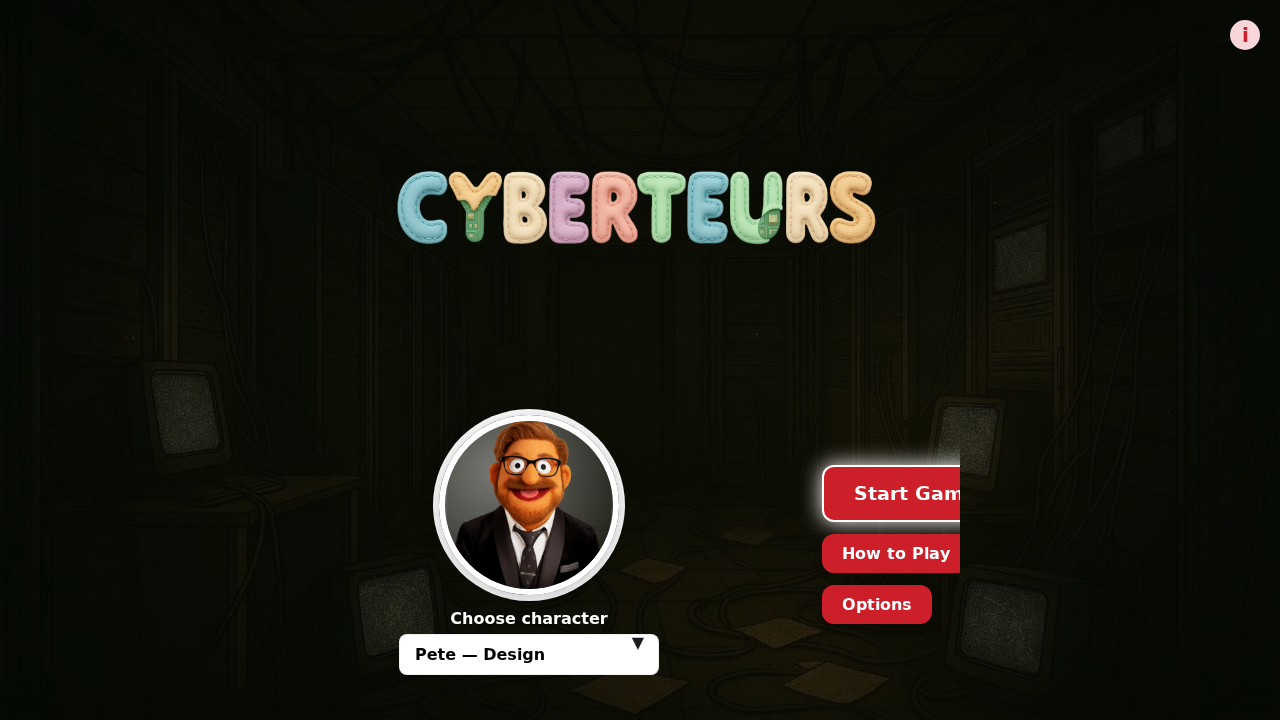
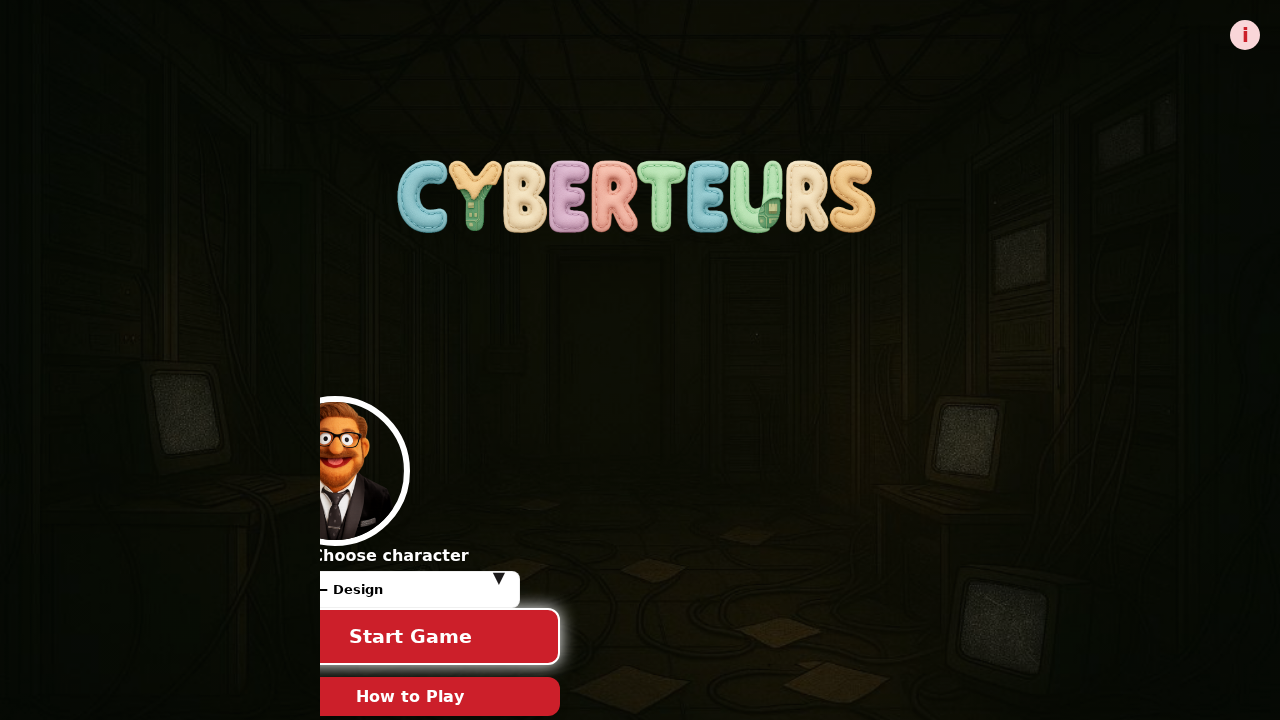
fix: remove scroll navigations on starting screen
Refactored the HTML and CSS of the starting screen to remove awkward scroll navigations. The new layout is a single, centered vertical column that is responsive and free of scrollbars.

Changed region(s): [[0.25, 0.55, 0.5312, 1.0], [0.3125, 0.2139, 0.6875, 0.3361], [0.625, 0.6111, 0.75, 0.8861]]

diff --git a/index.html b/index.html
@@ -11,80 +11,6 @@
   <meta name="theme-color" content="#cc1f2a">
 
   <link rel="stylesheet" href="css/style.css">
-
-  <!-- Minimal fixes for layout and the stray scrollbar -->
-  <style>
-    html, body { height: 100%; }
-    body { margin: 0; overflow-x: hidden; }
-
-    /* Start screen layout */
-    .main-menu { padding: 24px 24px 32px; }
-    .main-menu .main-logo {
-      display: block;
-      margin: 0 auto 12px auto;
-      max-width: 520px;
-      width: min(92vw, 520px);
-      height: auto;
-    }
-    /* Two columns under the logo: left preview, right actions */
-    .menu-grid {
-      display: grid;
-      grid-template-columns: 1fr 1fr;
-      gap: 24px;
-      align-items: start;
-      justify-items: center;
-      width: min(1100px, 92vw);
-      margin: 8px auto 0;
-      overflow: visible; /* belt-and-braces against stray bars */
-    }
-    /* Left column */
-    .character-block {
-      display: grid;
-      justify-items: center;
-      gap: 14px;
-      overflow: visible;
-    }
-    .character-image-frame {
-      width: 180px;
-      height: 180px;
-      border-radius: 50%;
-      display: grid;
-      place-items: center;
-      background: radial-gradient(circle at 30% 30%, rgba(255,255,255,.45), rgba(255,255,255,0));
-      box-shadow: 0 4px 22px rgba(0,0,0,.25), 0 0 0 6px #fff;
-    }
-    .character-image-frame img {
-      width: 100%;
-      height: 100%;
-      object-fit: cover;
-      border-radius: 50%;
-      display: block;
-    }
-    .custom-select-wrapper { width: 260px; max-width: 80vw; }
-    .custom-select-wrapper select {
-      width: 100%;
-      padding: 10px 12px;
-      border-radius: 10px;
-      border: 1px solid rgba(0,0,0,.15);
-      background: #fff;
-      font: 600 16px/1.2 system-ui, -apple-system, Segoe UI, Roboto, Arial, sans-serif;
-    }
-    /* Right column */
-    .main-actions {
-      display: grid;
-      gap: 12px;
-      justify-items: start;
-      overflow: visible;
-    }
-    /* Responsive: stack on small screens */
-    @media (max-width: 900px) {
-      .menu-grid { grid-template-columns: 1fr; }
-      .main-actions { justify-items: center; }
-    }
-
-    /* Make sure modal dialog itself isn't forcing inner scrollbars */
-    .modal .dialog { overflow: auto; }
-  </style>
 </head>
 <body>
 <div class="app">
@@ -112,7 +38,7 @@
   <div class="dialog">
     <button class="btn secondary close" id="closeLog">Close</button>
     <h2>Game Log</h2>
-    <div id="logBody" class="note" style="max-height:60vh; overflow:auto"></div>
+    <div id="logBody" class="note"></div>
   </div>
 </div>
 
@@ -121,34 +47,29 @@
   <div class="dialog main-menu">
     <img src="assets/cyberteurs.png" alt="Cyber Traitors" class="main-logo">
 
-    <!-- New two-column layout under the logo -->
-    <div class="menu-grid">
-      <!-- LEFT: character preview + dropdown -->
-      <div class="character-block">
-        <div class="character-image-frame">
-          <img id="character-preview-image" src="assets/pngs/al-consultant-1.png" alt="Selected character preview">
-        </div>
-        <div class="custom-select-wrapper">
-          <label for="playerSelect" class="sr-only">Choose character</label>
-          <select id="playerSelect"></select>
-        </div>
+    <!-- Centered, single-column layout -->
+    <div class="character-display-container">
+      <div class="character-image-frame">
+        <img id="character-preview-image" src="assets/pngs/al-consultant-1.png" alt="Selected character preview">
       </div>
-
-      <!-- RIGHT: actions -->
-      <nav class="main-actions">
-        <button id="startGameBtn" class="btn btn-main">Start Game</button>
-        <button id="howToPlayBtn" class="btn btn-sub">How to Play</button>
-        <button id="optionsBtn" class="btn btn-sub">Options</button>
-      </nav>
+      <div class="custom-select-wrapper">
+        <label for="playerSelect" class="sr-only">Choose character</label>
+        <select id="playerSelect"></select>
+      </div>
     </div>
+    <nav class="main-actions">
+      <button id="startGameBtn" class="btn btn-main">Start Game</button>
+      <button id="howToPlayBtn" class="btn btn-sub">How to Play</button>
+      <button id="optionsBtn" class="btn btn-sub">Options</button>
+    </nav>
   </div>
 </div>
 
 <!-- Info Modal -->
 <div class="modal" id="infoModal" role="dialog" aria-modal="true">
   <div class="dialog">
-    <h2 style="margin-top:0">About The Cyber Traitors</h2>
-      <p style="font-size:14px; line-height:1.4; color:var(--muted);">
+    <h2>About The Cyber Traitors</h2>
+      <p>
         Each day, you’ll face a workplace scenario.<br>
         1⃣ <strong>Pick the safest choice</strong> — avoid risky behaviour.<br>
         2⃣ Unsafe behaviour means instant <strong>elimination</strong>.<br>
@@ -157,7 +78,7 @@
         5⃣ Keep going until all traitors are gone (win) or they take over (lose).<br>
         <em>If votes tie, the group decides automatically.</em>
       </p>
-    <div class="footer" style="display:flex;justify-content:flex-end;align-items:center">
+    <div class="footer">
       <button id="closeInfoBtn" class="btn">Close</button>
     </div>
   </div>
@@ -168,8 +89,8 @@
 <!-- Options Modal -->
 <div class="modal" id="optionsModal" role="dialog" aria-modal="true">
   <div class="dialog">
-    <h2 style="margin-top:0">Options</h2>
-    <div class="row" style="display:flex;gap:10px;flex-wrap:wrap">
+    <h2>Options</h2>
+    <div class="row">
       <label>Difficulty<br>
         <select id="difficulty">
           <option>Easy</option>
@@ -194,7 +115,7 @@
       </label>
     </div>
     <hr>
-    <div class="footer" style="display:flex;justify-content:flex-end;align-items:center">
+    <div class="footer">
       <button id="confirmOptionsBtn" class="btn">Confirm Settings</button>
     </div>
   </div>
@@ -203,9 +124,9 @@
 <!-- How to Play Modal -->
 <div class="modal" id="howToPlayModal" role="dialog" aria-modal="true">
   <div class="dialog">
-    <h2 style="margin-top:0">How to Play</h2>
-    <div class="instructions" style="margin-bottom:12px;">
-      <p style="font-size:14px; line-height:1.4; color:var(--muted);">
+    <h2>How to Play</h2>
+    <div class="instructions">
+      <p>
         Each day, you’ll face a workplace scenario.<br>
         1⃣ <strong>Pick the safest choice</strong> — avoid risky behaviour.<br>
         2⃣ Unsafe behaviour means instant <strong>elimination</strong>.<br>
@@ -215,7 +136,7 @@
         <em>If votes tie, the group decides automatically.</em>
       </p>
     </div>
-    <div class="footer" style="display:flex;justify-content:flex-end;align-items:center">
+    <div class="footer">
       <button id="closeRulesBtn" class="btn">Close Rules</button>
     </div>
   </div>

diff --git a/css/style.css b/css/style.css
@@ -130,12 +130,6 @@ body[data-game-ready='true'] {
 .modal.open{ display:flex; }
 
 #startModal .dialog {
-    display: flex;
-    flex-direction: column;
-    align-items: center;
-    justify-content: center;
-    gap: 20px;
-    padding-bottom: 50px;
     background: transparent;
     box-shadow: none;
     border: none;
@@ -195,12 +189,20 @@ body[data-game-ready='true'] {
     pointer-events: none;
 }
 
+.main-menu {
+  display: flex;
+  flex-direction: column;
+  justify-content: center;
+  align-items: center;
+  text-align: center;
+  padding: 20px;
+}
+
 .main-actions {
-    display: flex;
-    flex-direction: column;
-    align-items: center;
-    gap: 10px;
-    margin-left: 40px;
+  display: flex;
+  flex-direction: column;
+  gap: 10px;
+  margin-top: 20px;
 }
 
 .btn-main {
@@ -249,8 +251,6 @@ body[data-game-ready='true'] {
   border-radius:16px;
   padding:20px;
   width: min(640px, 92vw);    /* keep it compact */
-  max-height: 85vh;           /* avoid overflowing small screens */
-  overflow: auto;
   box-shadow:0 30px 80px rgba(0,0,0,.35);
 }
 .dialog .close{ float:right; }
@@ -431,124 +431,3 @@ hr{ border:none; border-top:1px solid var(--rail); margin:12px 0; }
   }
 }
 
-/* === Start menu layout fix: centered two-column layout under the logo === */
-#startModal .dialog.main-menu {
-  display: grid;
-  grid-template-columns: 420px 300px;
-  justify-content: center;
-  align-items: center;
-  column-gap: 40px;
-  row-gap: 20px;
-  padding: 2vh 20px; /* Vertical padding to keep space from edges */
-  background: transparent;
-  box-shadow: none;
-  border: none;
-  overflow-y: auto; /* Enable vertical scrolling */
-  max-height: 95vh; /* Ensure it fits vertically */
-  max-width: 980px;
-  margin: auto; /* Center in the modal flex container */
-  overflow-y: auto;
-}
-
-
-/* Logo spans both columns and stays centered */
-#startModal .dialog.main-menu .main-logo {
-  grid-column: 1 / -1;
-  justify-self: center;
-  max-width: 500px;
-  margin-bottom: .5rem;
-}
-
-/* Left column: hug the left edge so the pair feels balanced */
-#startModal .dialog.main-menu .character-display-container {
-  justify-self: start;
-  gap: 10px;
-}
-
-/* Right column: tidy, consistent width and no stray margins */
-#startModal .dialog.main-menu .main-actions {
-  justify-self: start;
-  align-self: center;
-  display: grid;
-  gap: 12px;
-  width: 300px;
-  margin-left: 0;
-}
-
-/* Label legibility on dark background */
-.custom-select-wrapper label {
-  display: block;
-  margin-bottom: 6px;
-  color: #fff;
-  font-weight: 600;
-  text-align: center;
-  text-shadow: 0 1px 2px rgba(0,0,0,.35);
-}
-
-/* Keep the select close to the label width */
-.custom-select-wrapper { width: 260px; }
-
-/* Mobile: stack neatly */
-@media (max-width: 900px) {
-  #startModal .dialog.main-menu {
-    grid-template-columns: 1fr;
-    justify-content: center;
-    align-items: start;
-    max-width: min(92vw, 560px);
-    margin-top: 0;
-    padding: 20px;
-    max-height: 90vh; /* Allow scrolling on tall, narrow screens */
-    overflow-y: auto;
-  }
-  #startModal .dialog.main-menu .main-actions {
-    width: min(320px, 90vw);
-    justify-self: center;
-  }
-}
-
-
-/* Horizontal mobile: compact side-by-side layout */
-@media (max-height: 500px) and (orientation: landscape) {
-  #startModal .dialog.main-menu {
-    grid-template-columns: auto auto; /* Two columns, auto-sized */
-    gap: 20px;
-    align-items: center;
-    padding: 10px; /* Reduce padding */
-    margin: 1vh auto;
-    overflow-y: auto; /* Ensure scrolling is possible */
-    max-height: 95vh;
-  }
-
-
-  #startModal .dialog.main-menu .main-logo {
-    display: none; /* Hide logo to save critical vertical space */
-  }
-
-  .character-display-container {
-    gap: 8px; /* Reduce gap */
-  }
-
-  .character-image-frame {
-    width: 120px; /* Smaller avatar */
-    height: 120px;
-  }
-
-  .custom-select-wrapper {
-    width: 200px; /* Smaller select */
-  }
-
-  #startModal .dialog.main-menu .main-actions {
-    gap: 8px; /* Tighter buttons */
-    width: auto;
-  }
-
-  .main-actions .btn {
-    padding: 10px 16px; /* Smaller buttons */
-    font-size: 14px;
-  }
-
-  .main-actions .btn-main {
-    padding: 12px 20px;
-    font-size: 16px;
-  }
-}

diff --git a/verify_layout.py b/verify_layout.py
@@ -1,0 +1,12 @@
+from playwright.sync_api import sync_playwright
+
+def run(playwright):
+    browser = playwright.chromium.launch()
+    page = browser.new_page()
+    page.set_viewport_size({"width": 320, "height": 480})
+    page.goto("http://localhost:8000")
+    page.screenshot(path="verify_layout.png")
+    browser.close()
+
+with sync_playwright() as playwright:
+    run(playwright)
